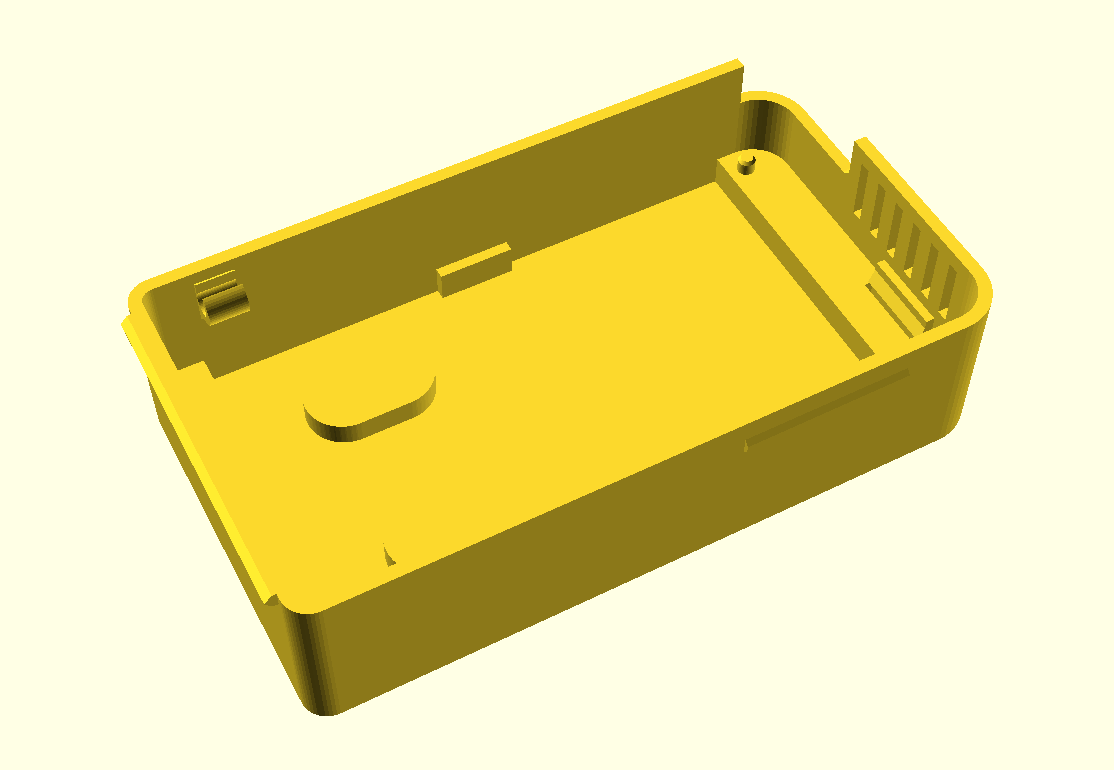
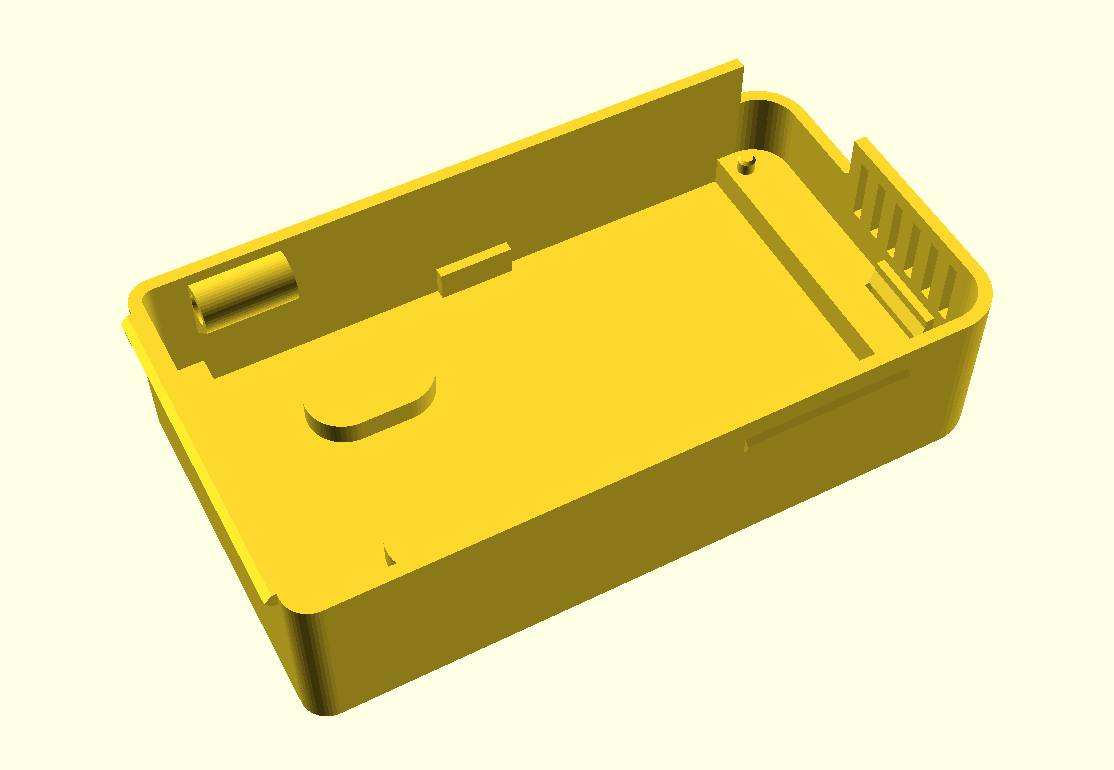
Case update, improved antenna holder

Changed region(s): [[0.1526, 0.3117, 0.2747, 0.4364]]

diff --git a/case/README.md b/case/README.md
@@ -46,10 +46,10 @@ To re-render the images, run `render-images.sh`.
 
 ## Assembly
 1. Slide the top end of the board (the BME280 end) into the slot at the top,
-   under the antenna clip in the base. Then press the bottom edge down until the hook
+   under the antenna tunnel in the base. Then press the bottom edge down until the hook
    clicks. The board rests on a bar at each end, and the two pins go into the
    bottom mounting holes.
-2. Press the LoRa antenna into the clip on the right-hand wall.
+2. Push the LoRa antenna up into the tunnel on the right-hand wall, from below.
 3. Hook the top edge of the lid behind the lip on top of the base. Then swing
    the lid down until the snaps on both sides click.
 4. Drill two holes 28 mm apart in the wall, level with each other, and fit screws with a
@@ -58,5 +58,6 @@ To re-render the images, run `render-images.sh`.
 
 To open the case, pull the wing tips away from the wall. Take the lid off to
 charge the battery: a tab on the lid closes the USB-C opening in the bottom
-wall. To take out the board, push the hook at the bottom edge towards the
-bottom wall, lift that end of the board and pull it out of the slot.
+wall. To take out the board, pull the antenna down out of its tunnel, push the
+hook at the bottom edge towards the bottom wall, lift that end of the board and
+pull it out of the slot.
